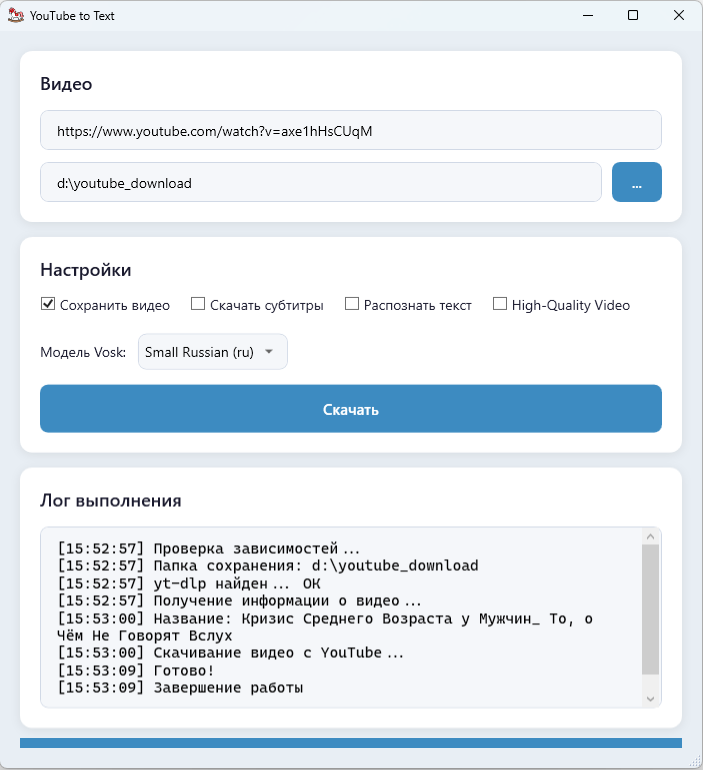
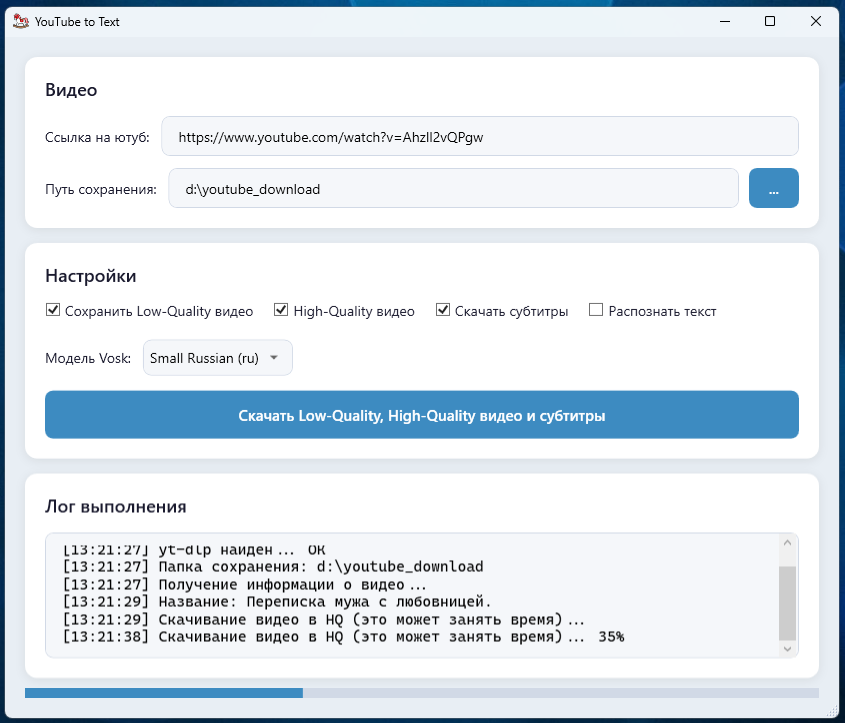
исправлен текст на кнопке

diff --git a/YTVtoText/MainWindow.xaml b/YTVtoText/MainWindow.xaml
@@ -5,7 +5,7 @@
         xmlns:mc="http://schemas.openxmlformats.org/markup-compatibility/2006"
         xmlns:local="clr-namespace:YTVtoText"
         mc:Ignorable="d"
-        Title="YouTube to Text" Height="620" Width="750"
+        Title="YouTube to Text" Height="720" Width="850"
         WindowStartupLocation="CenterScreen"
         ResizeMode="CanResizeWithGrip"
         Background="#E8EEF4"
@@ -159,20 +159,42 @@
             </Border.Effect>
             <StackPanel>
                 <TextBlock Text="Видео" FontSize="18" FontWeight="SemiBold" FontFamily="Segoe UI" Foreground="#1A1A2E" Margin="0,0,0,15"/>
-                <TextBox x:Name="UrlTextBox" 
-                         Height="40"
-                         ToolTip="Ссылка на YouTube видео"/>
+                <Grid>
+                    <Grid.ColumnDefinitions>
+                        <ColumnDefinition Width="Auto"/>
+                        <ColumnDefinition Width="*"/>
+                    </Grid.ColumnDefinitions>
+                    <TextBlock Grid.Column="0"
+                               Text="Ссылка на ютуб:"
+                               VerticalAlignment="Center"
+                               FontSize="14"
+                               FontFamily="Segoe UI"
+                               Foreground="#1A1A2E"
+                               Margin="0,0,12,0"/>
+                    <TextBox x:Name="UrlTextBox" 
+                             Grid.Column="1"
+                             Height="40"
+                             ToolTip="Ссылка на YouTube видео"/>
+                </Grid>
                 <Grid Margin="0,12,0,0">
                     <Grid.ColumnDefinitions>
+                        <ColumnDefinition Width="Auto"/>
                         <ColumnDefinition Width="*"/>
                         <ColumnDefinition Width="Auto"/>
                     </Grid.ColumnDefinitions>
+                    <TextBlock Grid.Column="0"
+                               Text="Путь сохранения:"
+                               VerticalAlignment="Center"
+                               FontSize="14"
+                               FontFamily="Segoe UI"
+                               Foreground="#1A1A2E"
+                               Margin="0,0,12,0"/>
                     <TextBox x:Name="SavePathTextBox" 
-                             Grid.Column="0"
+                             Grid.Column="1"
                              Height="40"
                              ToolTip="Папка для сохранения файлов"/>
                     <Button x:Name="BrowseFolderButton" 
-                            Grid.Column="1"
+                            Grid.Column="2"
                             Content="..."
                             Width="50"
                             Height="40"
@@ -197,9 +219,15 @@
                 <TextBlock Text="Настройки" FontSize="18" FontWeight="SemiBold" FontFamily="Segoe UI" Foreground="#1A1A2E" Margin="0,0,0,15"/>
                 <WrapPanel Margin="0,0,0,15">
                     <CheckBox x:Name="SaveVideoCheckBox" 
-                              Content="Сохранить видео"
+                              Content="Сохранить Low-Quality видео"
                               Margin="0,0,20,5"
                               ToolTip="Сохранить видеофайл на диск"/>
+                    <CheckBox x:Name="HQVideoCheckBox" 
+                              Content="High-Quality видео"
+                              Margin="0,0,20,5"
+                              ToolTip="Загружать видео в максимальном качестве"
+                              Checked="HQVideoCheckBox_Changed"
+                              Unchecked="HQVideoCheckBox_Changed"/>
                     <CheckBox x:Name="DownloadSubtitlesCheckBox" 
                               Content="Скачать субтитры"
                               Margin="0,0,20,5"
@@ -207,15 +235,9 @@
                               ToolTip="Загрузить субтитры, если доступны"/>
                     <CheckBox x:Name="RecognizeTextCheckBox" 
                               Content="Распознать текст"
-                              Margin="0,0,20,5"
+                              Margin="0,0,0,5"
                               IsChecked="True"
                               ToolTip="Распознать речь из видео (Vosk)"/>
-                    <CheckBox x:Name="HQVideoCheckBox" 
-                              Content="High-Quality Video"
-                              Margin="0,0,0,5"
-                              ToolTip="Загружать видео в максимальном качестве"
-                              Checked="HQVideoCheckBox_Changed"
-                              Unchecked="HQVideoCheckBox_Changed"/>
                 </WrapPanel>
                 <StackPanel Orientation="Horizontal" Margin="0,0,0,15">
                     <TextBlock Text="Модель Vosk:" 

diff --git a/YTVtoText/MainWindow.xaml.cs b/YTVtoText/MainWindow.xaml.cs
@@ -65,6 +65,15 @@ public partial class MainWindow : Window
             string modelName = item?.Tag?.ToString() ?? "vosk-model-small-ru-0.22";
             _voskModelUrl = _voskModels.GetValueOrDefault(modelName, _voskModels["vosk-model-small-ru-0.22"]);
         };
+
+        // Текст кнопки "Скачать" зависит от выбранных флажков
+        SaveVideoCheckBox.Checked += (_, _) => UpdateDownloadButtonText();
+        SaveVideoCheckBox.Unchecked += (_, _) => UpdateDownloadButtonText();
+        DownloadSubtitlesCheckBox.Checked += (_, _) => UpdateDownloadButtonText();
+        DownloadSubtitlesCheckBox.Unchecked += (_, _) => UpdateDownloadButtonText();
+        RecognizeTextCheckBox.Checked += (_, _) => UpdateDownloadButtonText();
+        RecognizeTextCheckBox.Unchecked += (_, _) => UpdateDownloadButtonText();
+        UpdateDownloadButtonText();
         
         _activityTimer = new System.Threading.Timer(UpdateActivityIndicator, null, 1000, 1000);
     }
@@ -109,6 +118,111 @@ public partial class MainWindow : Window
         LogTextBox.ScrollToEnd();
     }
 
+    private void UpdateDownloadButtonText()
+    {
+        bool saveVideo = SaveVideoCheckBox.IsChecked == true;
+        bool subtitles = DownloadSubtitlesCheckBox.IsChecked == true;
+        bool recognize = RecognizeTextCheckBox.IsChecked == true;
+        bool hqVideo = HQVideoCheckBox.IsChecked == true;
+
+        bool any = saveVideo || subtitles || recognize || hqVideo;
+        DownloadHQButton.IsEnabled = any;
+        if (!any)
+        {
+            // По требованиям: кнопка заблокирована, текст остаётся "Скачать"
+            DownloadHQButton.Content = "Скачать";
+            return;
+        }
+
+        // Точное соответствие комбинациям из ТЗ
+        if (saveVideo && subtitles && recognize && hqVideo)
+        {
+            DownloadHQButton.Content = "Скачать всё";
+            return;
+        }
+
+        // 1 флаг
+        if (saveVideo && !subtitles && !recognize && !hqVideo)
+        {
+            DownloadHQButton.Content = "Скачать только Low-Quality видео";
+            return;
+        }
+        if (!saveVideo && subtitles && !recognize && !hqVideo)
+        {
+            DownloadHQButton.Content = "Скачать только субтитры";
+            return;
+        }
+        if (!saveVideo && !subtitles && recognize && !hqVideo)
+        {
+            DownloadHQButton.Content = "Скачать Low-Quality видео и распознать";
+            return;
+        }
+        if (!saveVideo && !subtitles && !recognize && hqVideo)
+        {
+            DownloadHQButton.Content = "Скачать только High-Quality видео";
+            return;
+        }
+
+        // 2 флага (из ТЗ)
+        if (saveVideo && subtitles && !recognize && !hqVideo)
+        {
+            DownloadHQButton.Content = "Скачать Low-Quality видео и субтитры";
+            return;
+        }
+        if (saveVideo && recognize && !subtitles && !hqVideo)
+        {
+            DownloadHQButton.Content = "Скачать Low-Quality видео и распознать";
+            return;
+        }
+        if (saveVideo && hqVideo && !subtitles && !recognize)
+        {
+            DownloadHQButton.Content = "Скачать Low-Quality и High-Quality видео";
+            return;
+        }
+        if (subtitles && hqVideo && !saveVideo && !recognize)
+        {
+            DownloadHQButton.Content = "Скачать High-Quality видео и субтитры";
+            return;
+        }
+        if (subtitles && recognize && !saveVideo && !hqVideo)
+        {
+            DownloadHQButton.Content = "Скачать субтитры и распознать";
+            return;
+        }
+        if (recognize && hqVideo && !saveVideo && !subtitles)
+        {
+            DownloadHQButton.Content = "Скачать High-Quality видео и распознать";
+            return;
+        }
+
+        // 3 флага (из ТЗ)
+        if (saveVideo && subtitles && recognize && !hqVideo)
+        {
+            DownloadHQButton.Content = "Скачать Low-Quality видео, субтитры и распознать";
+            return;
+        }
+
+        // Остальные комбинации (не перечислены явно) — формируем понятные подписи
+        if (saveVideo && subtitles && hqVideo && !recognize)
+        {
+            DownloadHQButton.Content = "Скачать Low-Quality, High-Quality видео и субтитры";
+            return;
+        }
+        if (saveVideo && recognize && hqVideo && !subtitles)
+        {
+            DownloadHQButton.Content = "Скачать Low-Quality, High-Quality видео и распознать";
+            return;
+        }
+        if (subtitles && recognize && hqVideo && !saveVideo)
+        {
+            DownloadHQButton.Content = "Скачать High-Quality видео, субтитры и распознать";
+            return;
+        }
+
+        // Фолбэк (на всякий случай)
+        DownloadHQButton.Content = "Скачать";
+    }
+
     private void BrowseFolderButton_Click(object sender, RoutedEventArgs e)
     {
         var dialog = new OpenFolderDialog
@@ -125,14 +239,7 @@ public partial class MainWindow : Window
 
     private void HQVideoCheckBox_Changed(object sender, RoutedEventArgs e)
     {
-        if (HQVideoCheckBox.IsChecked == true)
-        {
-            DownloadHQButton.Content = "Скачать в HQ";
-        }
-        else
-        {
-            DownloadHQButton.Content = "Скачать";
-        }
+        UpdateDownloadButtonText();
     }
 
     private async void DownloadHQButton_Click(object sender, RoutedEventArgs e)
@@ -169,7 +276,8 @@ public partial class MainWindow : Window
         }
         finally
         {
-            DownloadHQButton.IsEnabled = true;
+            // Восстанавливаем доступность по текущим флажкам (если все сняты — оставляем заблокированной)
+            UpdateDownloadButtonText();
             UrlTextBox.IsEnabled = true;
         }
     }
